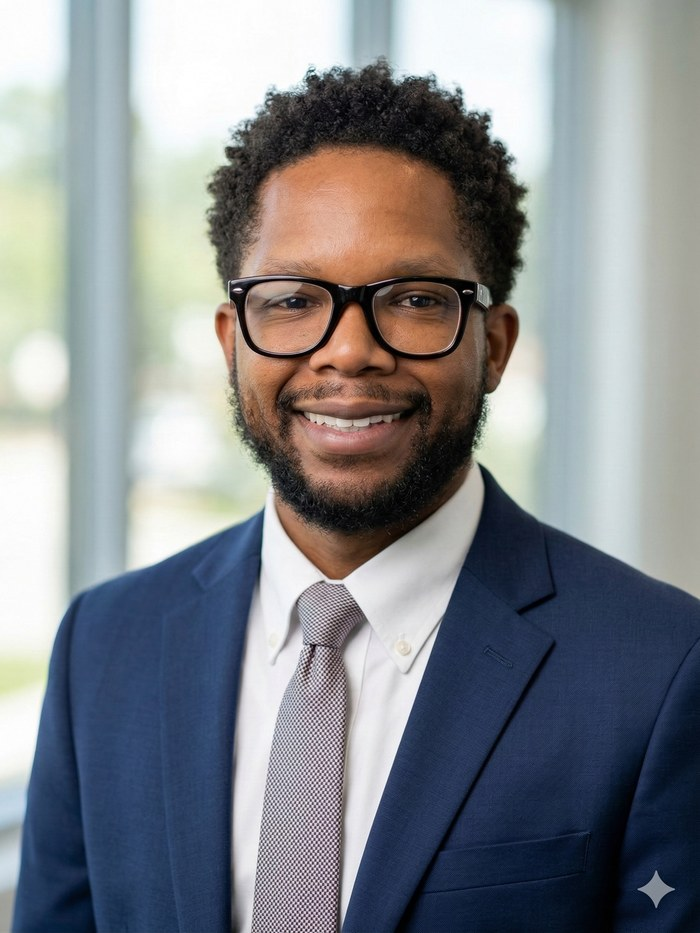
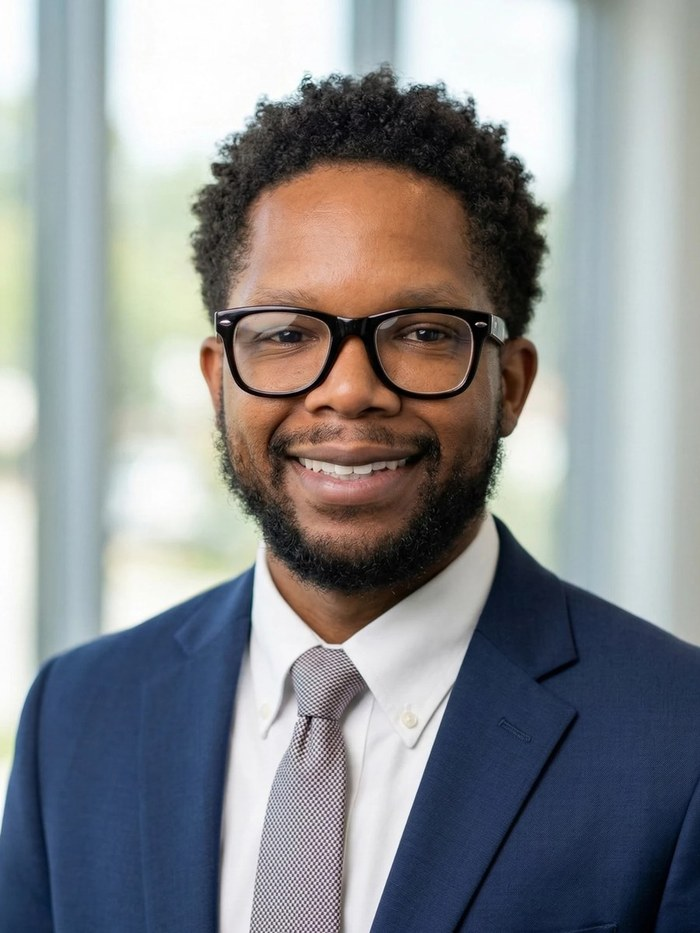
Polish site: founder photo, link previews, Google files, contact redirect
- Add founder.jpg so the About section shows Vernon's headshot (was missing)
- Replace vernon-photo.jpg with a crop that removes the corner watermark
- Add favicon, Apple touch icon, Open Graph/Twitter preview image and tags
- Add canonical URL and schema.org Organization data (UEI, CAGE, contact)
- Add robots.txt and sitemap.xml for Google Search Console
- Point contact.html to the Home page contact section so both pages match

Claude-Session: https://claude.ai/code/session_01PJ9UxH2hjMpxzWrt3SziLz

diff --git a/contact.html b/contact.html
@@ -3,75 +3,12 @@
 <head>
 <meta charset="UTF-8">
 <meta name="viewport" content="width=device-width, initial-scale=1.0">
-<title>Contact &mdash; Cloud Quantum Innovations</title>
-<link rel="stylesheet" href="styles.css">
+<title>Contact — Cloud Quantum Innovations</title>
+<link rel="canonical" href="https://cloudquantuminnovations.com/#contact">
+<meta http-equiv="refresh" content="0; url=index.html#contact">
+<script>location.replace('index.html#contact');</script>
 </head>
 <body>
-
-<div class="sheet">
-
-  <div class="band">
-    <span class="band-id">CQI · FEDERAL CONTRACTOR</span>
-    <div class="band-nav">
-      <a href="index.html">Home</a>
-      <a href="contact.html" class="active">Contact</a>
-    </div>
-  </div>
-
-  <div class="photo-wrap">
-    <img src="vernon-photo.jpg" alt="Vernon Cloud, Owner and President of Cloud Quantum Innovations">
-  </div>
-
-  <div class="hero" style="padding-top: 28px;">
-    <div class="person-line" style="margin-top: 0; font-size: 17px;"><span class="person-name">Vernon Cloud</span></div>
-    <div class="tagline" style="margin-top: 6px;">Owner / President, Cloud Quantum Innovations</div>
-  </div>
-
-  <div class="section">
-    <div class="about-text">My name is Vernon Cloud. I have over 15 years in customer service, sales, and entrepreneurship. I started CQI to build something durable: a small business that earns trust with the people who depend on it, one contract and one site visit at a time. Every relationship with a facility, a contracting officer, or a vendor partner is one we intend to keep for the long run.</div>
-  </div>
-
-  <div class="section">
-    <div class="label">Contact</div>
-    <div class="contact-row">
-      <a class="contact-item" href="tel:+12108021984">
-        <span class="k">Phone</span>
-        <span class="v">(210) 802-1984</span>
-      </a>
-      <div class="contact-note">Call or text &mdash; this is a cell phone.</div>
-      <a class="contact-item" href="mailto:vernon@cloudquantuminnovations.com">
-        <span class="k">Email</span>
-        <span class="v">vernon@cloudquantuminnovations.com</span>
-      </a>
-    </div>
-  </div>
-
-  <div class="section">
-    <div class="label">Send a message</div>
-    <form id="contact-form" action="https://formspree.io/f/mbdvrbpk" method="POST">
-      <div class="form-group">
-        <label for="name">Name</label>
-        <input type="text" id="name" name="name" required>
-      </div>
-      <div class="form-group">
-        <label for="email">Email</label>
-        <input type="email" id="email" name="_replyto" required>
-      </div>
-      <div class="form-group">
-        <label for="message">Message</label>
-        <textarea id="message" name="message" required></textarea>
-      </div>
-      <input type="hidden" name="_subject" value="New message from CQI website">
-      <button type="submit" class="submit-btn">Send message</button>
-    </form>
-    <div class="form-note">Goes directly to Vernon's inbox.</div>
-  </div>
-
-  <div class="footer">
-    <div class="footer-line">Federal &amp; Military Facility Services</div>
-  </div>
-
-</div>
-
+<p>Taking you to <a href="index.html#contact">Contact Cloud Quantum Innovations</a> — Vernon J. Cloud Jr., 210-802-1984, vernon@cloudquantuminnovations.com.</p>
 </body>
 </html>

diff --git a/index.html b/index.html
@@ -5,6 +5,22 @@
 <meta name="viewport" content="width=device-width, initial-scale=1.0">
 <title>Cloud Quantum Innovations — Federal Facility Services | Complex Problems. Innovative Solutions.</title>
 <meta name="description" content="Cloud Quantum Innovations (CQI) is a federal facility-services prime contractor and small disadvantaged business. We solve complex facility problems for military and federal installations — laundry, janitorial, grounds, waste, security, courier, staffing — and partner the right teams to deliver them.">
+<link rel="canonical" href="https://cloudquantuminnovations.com/">
+<link rel="icon" type="image/png" sizes="32x32" href="favicon-32.png">
+<link rel="apple-touch-icon" href="apple-touch-icon.png">
+<meta name="theme-color" content="#131020">
+<meta property="og:type" content="website">
+<meta property="og:site_name" content="Cloud Quantum Innovations">
+<meta property="og:title" content="Cloud Quantum Innovations — Federal Facility Services">
+<meta property="og:description" content="One accountable prime for laundry, janitorial, grounds, waste, security, courier and staffing at military and federal installations. San Antonio, TX · SDB · UEI DYHALK6N5115 · CAGE 9UJF9.">
+<meta property="og:url" content="https://cloudquantuminnovations.com/">
+<meta property="og:image" content="https://cloudquantuminnovations.com/og-image.png">
+<meta property="og:image:width" content="1200">
+<meta property="og:image:height" content="630">
+<meta name="twitter:card" content="summary_large_image">
+<script type="application/ld+json">
+{"@context":"https://schema.org","@type":"Organization","name":"Cloud Quantum Innovations","alternateName":"CQI","url":"https://cloudquantuminnovations.com/","logo":"https://cloudquantuminnovations.com/icon-512.png","image":"https://cloudquantuminnovations.com/og-image.png","slogan":"Complex problems. Innovative solutions.","email":"vernon@cloudquantuminnovations.com","telephone":"+1-210-802-1984","address":{"@type":"PostalAddress","addressLocality":"San Antonio","addressRegion":"TX","addressCountry":"US"},"founder":{"@type":"Person","name":"Vernon J. Cloud Jr.","jobTitle":"Owner & CEO"},"identifier":[{"@type":"PropertyValue","propertyID":"UEI","value":"DYHALK6N5115"},{"@type":"PropertyValue","propertyID":"CAGE","value":"9UJF9"}]}
+</script>
 <link rel="preconnect" href="https://fonts.googleapis.com">
 <link rel="preconnect" href="https://fonts.gstatic.com" crossorigin>
 <link href="https://fonts.googleapis.com/css2?family=Sora:wght@400;600;700;800&family=Inter:wght@400;500;600&family=IBM+Plex+Mono:wght@400;500&display=swap" rel="stylesheet">
